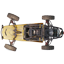
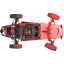
Vehicle Toggle
Vehicle toggle and new icons

diff --git a/src/main/kotlin/pubg/radar/ui/GLMap.kt b/src/main/kotlin/pubg/radar/ui/GLMap.kt
@@ -17,7 +17,6 @@ import com.badlogic.gdx.graphics.OrthographicCamera
 import com.badlogic.gdx.graphics.Texture
 import com.badlogic.gdx.graphics.g2d.BitmapFont
 import com.badlogic.gdx.graphics.g2d.GlyphLayout
-import com.badlogic.gdx.graphics.g2d.Sprite
 import com.badlogic.gdx.graphics.g2d.SpriteBatch
 import com.badlogic.gdx.graphics.g2d.freetype.FreeTypeFontGenerator
 import com.badlogic.gdx.graphics.g2d.freetype.FreeTypeFontGenerator.DEFAULT_CHARS
@@ -133,7 +132,10 @@ class GLMap : InputAdapter(), ApplicationListener, GameListener {
     private lateinit var vehicle: Texture
     private lateinit var boat: Texture
     private lateinit var bike: Texture
-    //   private lateinit var buggy: Texture
+    private lateinit var bike3x: Texture
+    private lateinit var buggy: Texture
+    private lateinit var van: Texture
+    private lateinit var pickup: Texture
     private lateinit var arrow: Texture
     private lateinit var player: Texture
     private lateinit var parachute: Texture
@@ -161,11 +163,11 @@ class GLMap : InputAdapter(), ApplicationListener, GameListener {
     private val aimStartTime = HashMap<NetworkGUID, Long>()
     private val attackLineStartTime = LinkedList<Triple<NetworkGUID, NetworkGUID, Long>>()
     private val pinLocation = Vector2()
-    private var filterWeapon = 1
+    private var filterWeapon = -1
     private var filterAttach = 1
     private var filterLvl2 = 1
-    private var filterScope = 1
-    private var filterHeals = 1
+    private var filterScope = -1
+    private var filterHeals = -1
     private var filterAmmo = 1
     private var filterThrow = 1
     private var drawcompass = -1
@@ -182,7 +184,8 @@ class GLMap : InputAdapter(), ApplicationListener, GameListener {
     private var prevScreenY = -1f
     private var screenOffsetX = 0f
     private var screenOffsetY = 0f
-    private var ticons = -1
+    private var ticons = 1
+    private var toggleVechicles = -1
 
     private fun Vector2.windowToMap() =
             Vector2(selfCoords.x + (x - windowWidth / 2.0f) * camera.zoom * windowToMapUnit + screenOffsetX,
@@ -252,8 +255,9 @@ class GLMap : InputAdapter(), ApplicationListener, GameListener {
             NUMPAD_8 -> camera.zoom = 1 / 12f
             NUMPAD_9 -> camera.zoom = 1 / 24f
 
-            // Toggle Transparent Player Icons
+        // Toggle Transparent Player Icons
             F8 -> ticons = ticons * -1
+            F7 -> toggleVechicles = toggleVechicles * -1
 
         // Zoom In/Out || Overrides Max/Min Zoom
             F9 -> camera.zoom = camera.zoom + 0.00525f
@@ -315,7 +319,10 @@ class GLMap : InputAdapter(), ApplicationListener, GameListener {
         parachutet = Texture(Gdx.files.internal("images/parachuteT.png"))
         boat = Texture(Gdx.files.internal("images/boat.png"))
         bike = Texture(Gdx.files.internal("images/bike.png"))
-  //    buggy = Texture(Gdx.files.internal("images/buggy.png"))
+        bike3x = Texture(Gdx.files.internal("images/bike3x.png"))
+        pickup = Texture(Gdx.files.internal("images/pickup.png"))
+        van = Texture(Gdx.files.internal("images/van.png"))
+        buggy = Texture(Gdx.files.internal("images/buggy.png"))
         grenade = Texture(Gdx.files.internal("images/grenade.png"))
         iconImages = Icons(Texture(Gdx.files.internal("images/item-sprites.png")), 64)
         mapErangelTiles = mutableMapOf()
@@ -698,14 +705,14 @@ class GLMap : InputAdapter(), ApplicationListener, GameListener {
     private fun drawMyself(actorInfo: renderInfo) {
         val (actor, x, y, dir) = actorInfo
         val (sx, sy) = Vector2(x, y).mapToWindow()
-        if(ticons != 1) {
+        if (ticons != 1) {
             spriteBatch.draw(
 
                     player,
                     sx + 2, windowHeight - sy - 2, 4.toFloat() / 2,
                     4.toFloat() / 2, 4.toFloat(), 4.toFloat(), 5f, 5f,
                     dir * -1, 0, 0, 64, 64, true, false)
-        }else{
+        } else {
             spriteBatch.draw(
 
                     playert,
@@ -790,90 +797,114 @@ class GLMap : InputAdapter(), ApplicationListener, GameListener {
         for ((type, actorInfos) in typeLocation) {
             when (type) {
                 TwoSeatBoat -> actorInfos?.forEach {
-                    val (actor, x, y, dir) = it
-                    val (sx, sy) = Vector2(x, y).mapToWindow()
-                    spriteBatch.draw(
-                            boat,
-                            sx + 2, windowHeight - sy - 2, 4.toFloat() / 2,
-                            4.toFloat() / 2, 4.toFloat(), 4.toFloat(), iconScale / 2, iconScale / 2,
-                            dir * -1, 0, 0, 64, 64, true, false
-                    )
+                    if (toggleVechicles != 1) {
 
+                        val (actor, x, y, dir) = it
+                        val (sx, sy) = Vector2(x, y).mapToWindow()
+                        spriteBatch.draw(
+                                boat,
+                                sx + 2, windowHeight - sy - 2, 4.toFloat() / 2,
+                                4.toFloat() / 2, 4.toFloat(), 4.toFloat(), iconScale / 2, iconScale / 2,
+                                dir * -1, 0, 0, 64, 64, true, false
+                        )
+                    }
                 }
                 SixSeatBoat -> actorInfos?.forEach {
-                    val (actor, x, y, dir) = it
-                    val (sx, sy) = Vector2(x, y).mapToWindow()
-                    spriteBatch.draw(
-                            boat,
-                            sx + 2, windowHeight - sy - 2, 4.toFloat() / 2,
-                            4.toFloat() / 2, 4.toFloat(), 4.toFloat(), iconScale / 2, iconScale / 2,
-                            dir * -1, 0, 0, 64, 64, true, false
-                    )
-
+                    if (toggleVechicles != 1) {
+                        val (actor, x, y, dir) = it
+                        val (sx, sy) = Vector2(x, y).mapToWindow()
+                        spriteBatch.draw(
+                                boat,
+                                sx + 2, windowHeight - sy - 2, 4.toFloat() / 2,
+                                4.toFloat() / 2, 4.toFloat(), 4.toFloat(), iconScale / 2, iconScale / 2,
+                                dir * -1, 0, 0, 64, 64, true, false
+                        )
+                    }
                 }
                 TwoSeatBike -> actorInfos?.forEach {
-                    val (actor, x, y, dir) = it
-                    val (sx, sy) = Vector2(x, y).mapToWindow()
+                    if (toggleVechicles != 1) {
+                        val (actor, x, y, dir) = it
+                        val (sx, sy) = Vector2(x, y).mapToWindow()
 
-                    spriteBatch.draw(
-                            bike,
-                            sx + 2, windowHeight - sy - 2, 4.toFloat() / 2,
-                            4.toFloat() / 2, 4.toFloat(), 4.toFloat(), iconScale / 3, iconScale / 3,
-                            dir * -1, 0, 0, 64, 50, true, false
-                    )
-
+                        spriteBatch.draw(
+                                bike,
+                                sx + 2, windowHeight - sy - 2, 4.toFloat() / 2,
+                                4.toFloat() / 2, 4.toFloat(), 4.toFloat(), iconScale / 3, iconScale / 3,
+                                dir * -1, 0, 0, 64, 64, true, false
+                        )
+                    }
                 }
                 TwoSeatCar -> actorInfos?.forEach {
-                    val (actor, x, y, dir) = it
-                    val (sx, sy) = Vector2(x, y).mapToWindow()
+                    if (toggleVechicles != 1) {
+                        val (actor, x, y, dir) = it
+                        val (sx, sy) = Vector2(x, y).mapToWindow()
 
-                    spriteBatch.draw(
-                            vehicle,
-                            sx + 2, windowHeight - sy - 2,
-                            2.toFloat() / 2, 2.toFloat() / 2,
-                            2.toFloat(), 2.toFloat(),
-                            iconScale / 2, iconScale / 2,
-                            dir * -1, 0, 0, 128, 128, false, false
-                    )
-
+                        spriteBatch.draw(
+                                buggy,
+                                sx + 2, windowHeight - sy - 2,
+                                2.toFloat() / 2, 2.toFloat() / 2,
+                                2.toFloat(), 2.toFloat(),
+                                iconScale / 2, iconScale / 2,
+                                dir * -1, 0, 0, 64, 64, false, false
+                        )
+                    }
                 }
                 ThreeSeatCar -> actorInfos?.forEach {
-                    val (actor, x, y, dir) = it
-                    val (sx, sy) = Vector2(x, y).mapToWindow()
-                    val selfDir = Vector2(x, y).sub(preSelfCoords)
-                    if (selfDir.len() < 1e-8) selfDir.set(preDirection)
-                    spriteBatch.draw(
-                            bike,
-                            sx + 2, windowHeight - sy - 2, 4.toFloat() / 2, 4.toFloat() / 2,
-                            4.toFloat(), 4.toFloat(), iconScale / 2, iconScale / 2,
-                            dir * -1, 0, 0, 64, 50, true, false
-                    )
-
+                    if (toggleVechicles != 1) {
+                        val (actor, x, y, dir) = it
+                        val (sx, sy) = Vector2(x, y).mapToWindow()
+                        val selfDir = Vector2(x, y).sub(preSelfCoords)
+                        if (selfDir.len() < 1e-8) selfDir.set(preDirection)
+                        spriteBatch.draw(
+                                bike3x,
+                                sx + 2, windowHeight - sy - 2, 4.toFloat() / 2, 4.toFloat() / 2,
+                                4.toFloat(), 4.toFloat(), iconScale / 2, iconScale / 2,
+                                dir * -1, 0, 0, 64, 64, true, false
+                        )
+                    }
 
                 }
-                FourSeatCar -> actorInfos?.forEach {
-                    val (actor, x, y, dir) = it
-                    val (sx, sy) = Vector2(x, y).mapToWindow()
-                    spriteBatch.draw(
-                            vehicle,
-                            sx + 2, windowHeight - sy - 2,
-                            2.toFloat() / 2, 2.toFloat() / 2,
-                            2.toFloat(), 2.toFloat(),
-                            iconScale / 2, iconScale / 2,
-                            dir * -1, 0, 0, 128, 128, false, false
-                    )
+                FourSeatDU -> actorInfos?.forEach {
+                    if (toggleVechicles != 1) {
+                        val (actor, x, y, dir) = it
+                        val (sx, sy) = Vector2(x, y).mapToWindow()
+                        spriteBatch.draw(
+                                vehicle,
+                                sx + 2, windowHeight - sy - 2,
+                                2.toFloat() / 2, 2.toFloat() / 2,
+                                2.toFloat(), 2.toFloat(),
+                                iconScale / 2, iconScale / 2,
+                                dir * -1, 0, 0, 128, 128, false, false
+                        )
+                    }
+                }
+                FourSeatP -> actorInfos?.forEach {
+                    if (toggleVechicles != 1) {
+                        val (actor, x, y, dir) = it
+                        val (sx, sy) = Vector2(x, y).mapToWindow()
+                        spriteBatch.draw(
+                                pickup,
+                                sx + 2, windowHeight - sy - 2,
+                                2.toFloat() / 2, 2.toFloat() / 2,
+                                2.toFloat(), 2.toFloat(),
+                                iconScale / 2, iconScale / 2,
+                                dir * -1, 0, 0, 64, 64, false, false
+                        )
+                    }
                 }
                 SixSeatCar -> actorInfos?.forEach {
-                    val (actor, x, y, dir) = it
-                    val (sx, sy) = Vector2(x, y).mapToWindow()
-                    spriteBatch.draw(
-                            vehicle,
-                            sx + 2, windowHeight - sy - 2,
-                            2.toFloat() / 2, 2.toFloat() / 2,
-                            2.toFloat(), 2.toFloat(),
-                            iconScale / 2, iconScale / 2,
-                            dir * -1, 0, 0, 128, 128, false, false
-                    )
+                    if (toggleVechicles != 1) {
+                        val (actor, x, y, dir) = it
+                        val (sx, sy) = Vector2(x, y).mapToWindow()
+                        spriteBatch.draw(
+                                van,
+                                sx + 2, windowHeight - sy - 2,
+                                2.toFloat() / 2, 2.toFloat() / 2,
+                                2.toFloat(), 2.toFloat(),
+                                iconScale / 2, iconScale / 2,
+                                dir * -1, 0, 0, 64, 64, false, false
+                        )
+                    }
                 }
                 Player -> actorInfos?.forEach {
 
@@ -884,13 +915,13 @@ class GLMap : InputAdapter(), ApplicationListener, GameListener {
 
 
                         if (isTeamMate(actor)) {
-                            if(ticons != 1){
-                            spriteBatch.draw(
-                                    player,
-                                    sx + 2, windowHeight - sy - 2, 4.toFloat() / 2,
-                                    4.toFloat() / 2, 4.toFloat(), 4.toFloat(), 5f, 5f,
-                                    dir * -1, 0, 0, 64, 64, true, false)}else
-                            {
+                            if (ticons != 1) {
+                                spriteBatch.draw(
+                                        player,
+                                        sx + 2, windowHeight - sy - 2, 4.toFloat() / 2,
+                                        4.toFloat() / 2, 4.toFloat(), 4.toFloat(), 5f, 5f,
+                                        dir * -1, 0, 0, 64, 64, true, false)
+                            } else {
                                 spriteBatch.draw(
                                         playert,
                                         sx + 2, windowHeight - sy - 2, 4.toFloat() / 2,
@@ -900,13 +931,13 @@ class GLMap : InputAdapter(), ApplicationListener, GameListener {
                             }
                         } else {
 
-                            if(ticons != 1) {
+                            if (ticons != 1) {
                                 spriteBatch.draw(
                                         arrow,
                                         sx + 2, windowHeight - sy - 2, 4.toFloat() / 2,
                                         4.toFloat() / 2, 4.toFloat(), 4.toFloat(), 5f, 5f,
                                         dir * -1, 0, 0, 64, 64, true, false)
-                            }else{
+                            } else {
                                 spriteBatch.draw(
                                         arrowt,
                                         sx + 2, windowHeight - sy - 2, 4.toFloat() / 2,
@@ -925,13 +956,13 @@ class GLMap : InputAdapter(), ApplicationListener, GameListener {
 
                         val (actor, x, y, dir) = it
                         val (sx, sy) = Vector2(x, y).mapToWindow()
-                        if(ticons != 1) {
+                        if (ticons != 1) {
                             spriteBatch.draw(
                                     parachute,
                                     sx + 2, windowHeight - sy - 2, 4.toFloat() / 2,
                                     4.toFloat() / 2, 4.toFloat(), 4.toFloat(), 5f, 5f,
                                     dir * -1, 0, 0, 64, 64, true, false)
-                        }else{
+                        } else {
                             spriteBatch.draw(
                                     parachutet,
                                     sx + 2, windowHeight - sy - 2, 4.toFloat() / 2,

diff --git a/src/main/kotlin/pubg/radar/struct/Actor.kt b/src/main/kotlin/pubg/radar/struct/Actor.kt
@@ -10,11 +10,12 @@ enum class Archetype { //order matters, it affects the order of drawing
     DroopedItemGroup,
     Grenade,
     TwoSeatBoat,
+    FourSeatDU,
+    FourSeatP,
     SixSeatBoat,
     TwoSeatBike,
     TwoSeatCar,
     ThreeSeatCar,
-    FourSeatCar,
     SixSeatCar,
     Plane,
     Player,
@@ -34,7 +35,8 @@ enum class Archetype { //order matters, it affects the order of drawing
                 archetype.contains("Parachute") -> Parachute
                 archetype.contains(Regex("(bike|Sidecart)", RegexOption.IGNORE_CASE)) -> TwoSeatBike
                 archetype.contains(Regex("(buggy)", RegexOption.IGNORE_CASE)) -> TwoSeatCar
-                archetype.contains(Regex("(dacia|uaz|pickup)", RegexOption.IGNORE_CASE)) -> FourSeatCar
+                archetype.contains(Regex("(dacia|uaz|pickup)", RegexOption.IGNORE_CASE)) -> FourSeatDU
+                archetype.contains(Regex("(pickup)", RegexOption.IGNORE_CASE)) -> FourSeatP
                 archetype.contains("bus", true) -> SixSeatCar
                 archetype.contains("van", true) -> SixSeatCar
                 archetype.contains("AquaRail", true) -> TwoSeatBoat
@@ -73,7 +75,8 @@ class Actor(val netGUID: NetworkGUID, private val archetypeGUID: NetworkGUID, va
         TwoSeatBike,
         TwoSeatCar,
         ThreeSeatCar,
-        FourSeatCar,
+        FourSeatDU,
+        FourSeatP,
         SixSeatCar,
         Plane,
         Player,

diff --git a/src/main/kotlin/pubg/radar/struct/cmd/package.kt b/src/main/kotlin/pubg/radar/struct/cmd/package.kt
@@ -50,9 +50,11 @@ object CMD {
                         Grenade to APawnCMD::process,
                         TwoSeatBoat to APawnCMD::process,
                         SixSeatBoat to APawnCMD::process,
+                        TwoSeatBike to APawnCMD::process,
                         TwoSeatCar to APawnCMD::process,
                         ThreeSeatCar to APawnCMD::process,
-                        FourSeatCar to APawnCMD::process,
+                        FourSeatP to APawnCMD::process,
+                        FourSeatDU to APawnCMD::process,
                         SixSeatCar to APawnCMD::process,
                         Plane to APawnCMD::process,
                         Player to ActorCMD::process,

diff --git a/README.md b/README.md
@@ -23,6 +23,7 @@ You can't filter level 3 gear (always enabled)
            
 #### Icons
 
+* F7 -> Toggle Vehciles
 * F8 -> Toggle Transparent Icons for Parachute/Player/Team
 
 #### Zooms:
